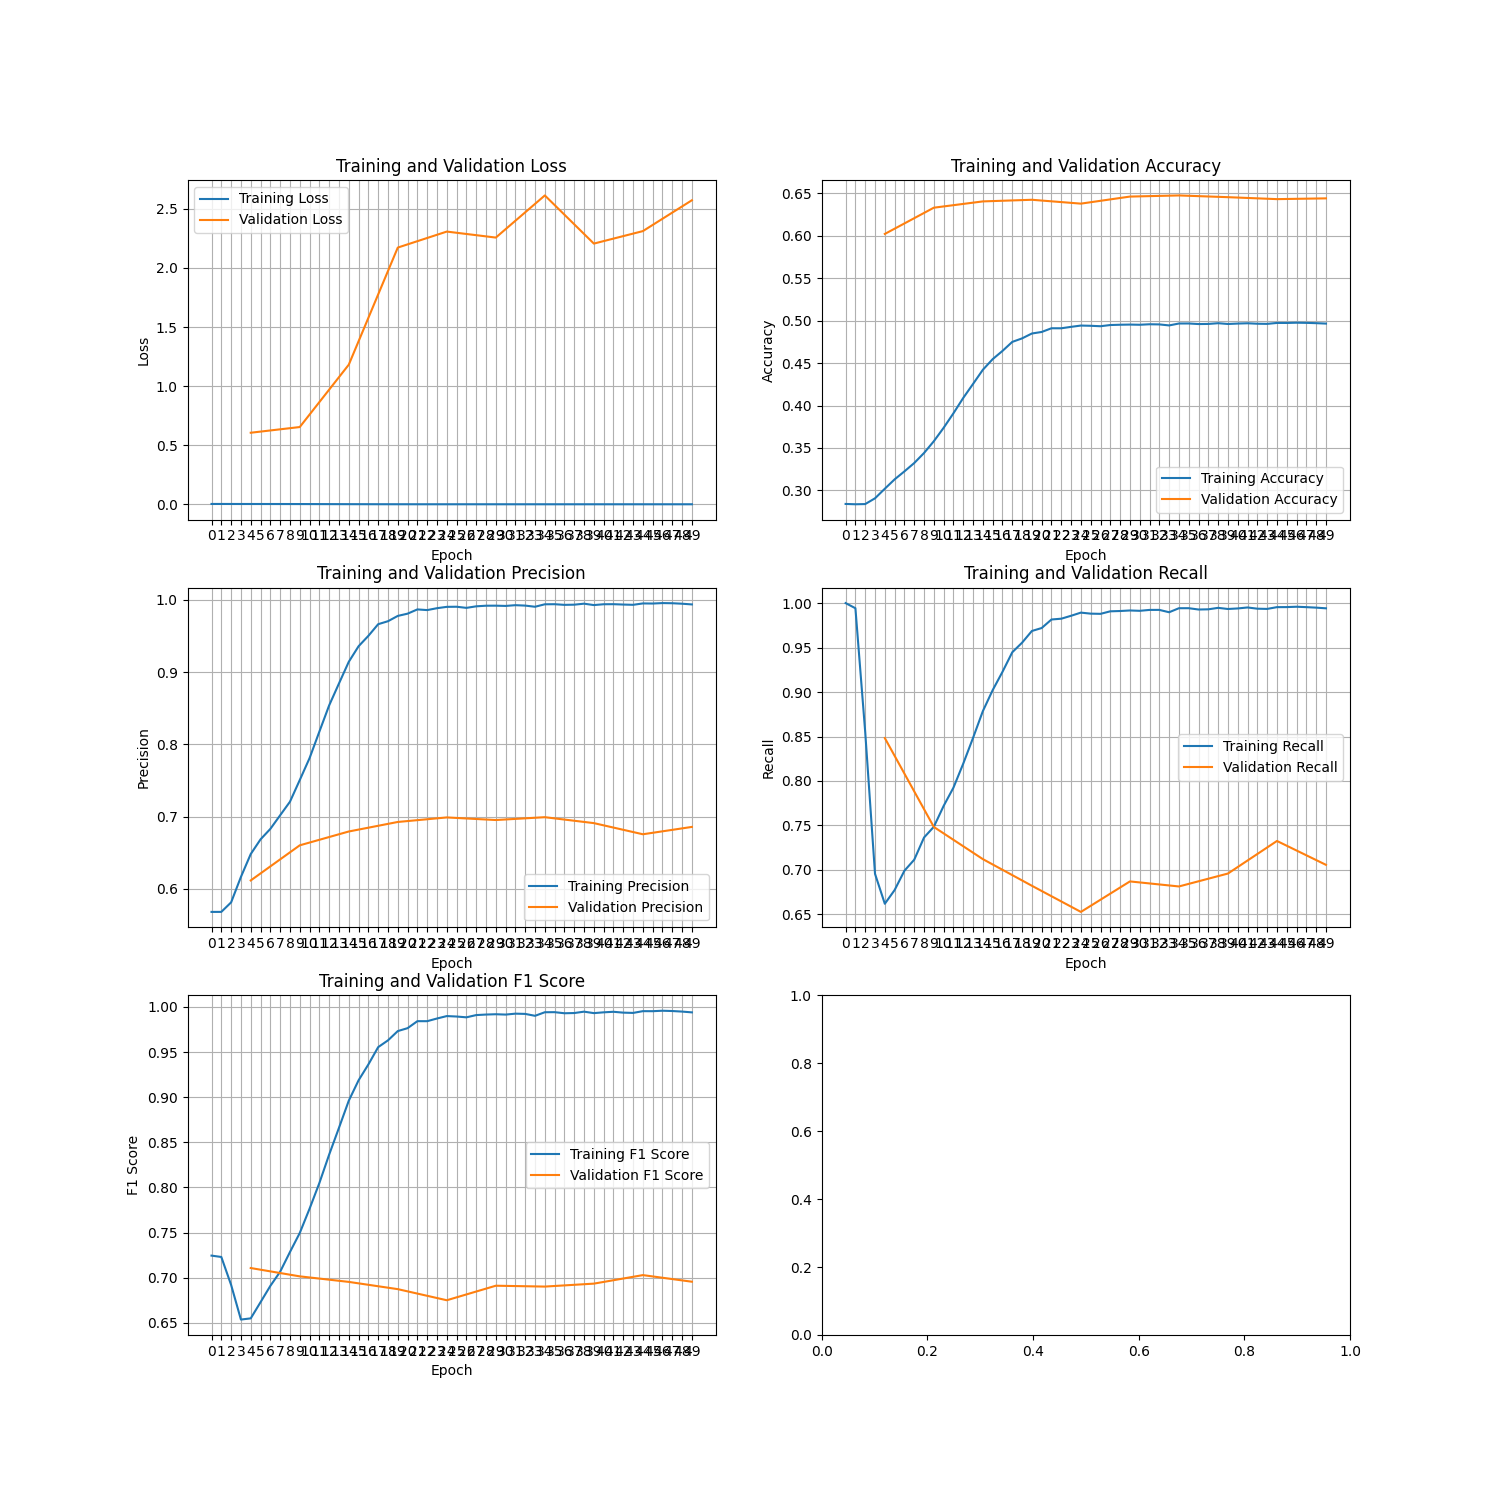
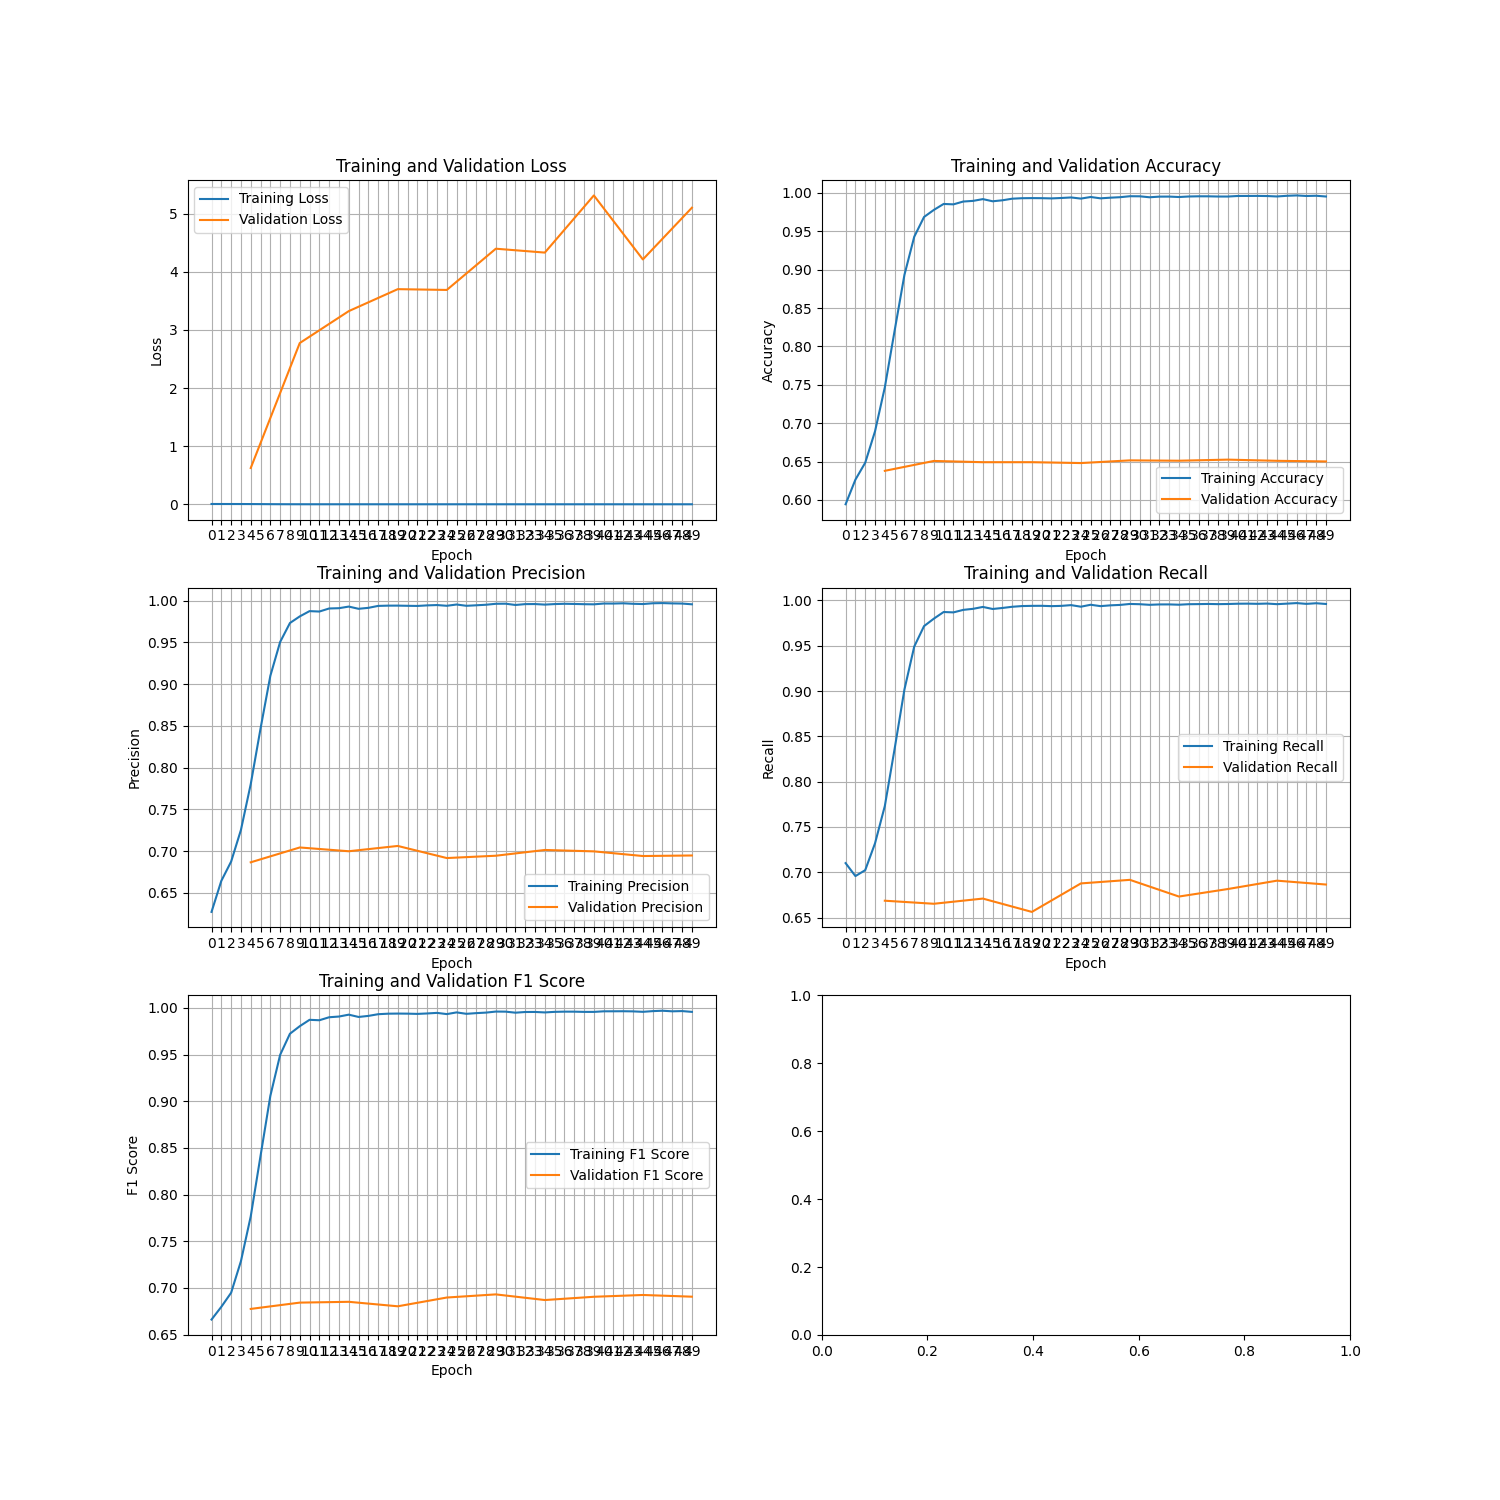
Fixed line of code related to accuracy. Used max pooling over entire output array. Ran the code for 50 epochs.

diff --git a/src/rnn_model/model.py b/src/rnn_model/model.py
@@ -31,7 +31,7 @@ class FakeNewsDetector(nn.Module):
         initial_state = torch.zeros(4, x.size(0), 300, device=x.device)
         cell_state = torch.zeros(4, x.size(0), 300, device=x.device)
         output, _ = self.rnn(x, (initial_state, cell_state))
-        output = output[:, -1, :]  # Take the last output from RNN
+        output = torch.max(output, dim=1)[0]  
         x = self.fc1(output)
         x = self.fc2(x)  # passing hidden state here
         return self.sigmoid(x).squeeze(1)

diff --git a/src/rnn_model/train.py b/src/rnn_model/train.py
@@ -40,7 +40,6 @@ def train_model(model: nn.Module, config: TrainingConfig) -> TrainingHistory:
         epoch_start_time = time.time()
         model.train()
         train_metric = EvaluationMetric(
-            dataset_size=len(config.train_dataloader.dataset),
             batch_size=config.train_dataloader.batch_size,
             num_model_parameters=sum(p.numel() for p in model.parameters()),
         )
